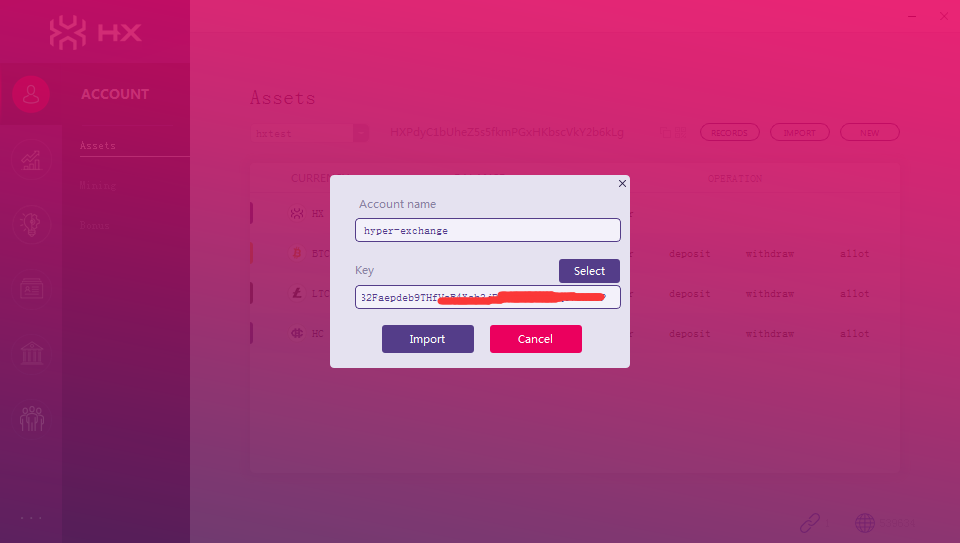
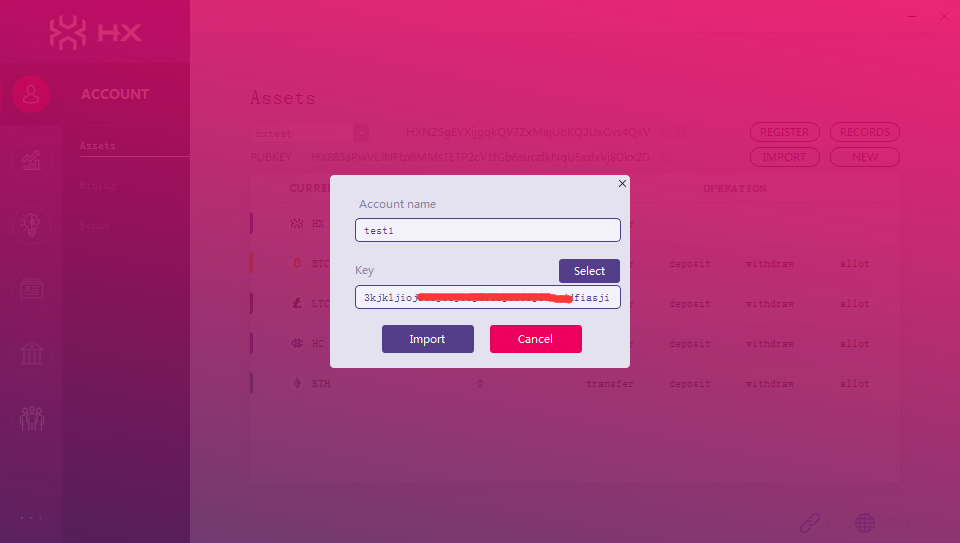
asset page modify

diff --git a/src/i18n/zh/docs/wallets/hxindicator-using-account.md b/src/i18n/zh/docs/wallets/hxindicator-using-account.md
@@ -2,7 +2,7 @@
 
 最新版本 v1.0.7.
 
-本指南假设您已使用[HyperExchange Indicator设置](hxindicator-setup.md)设置了HyperExchange钱包。下面将详细介绍一下功能：`Account/Contract/Advance/Contacts/Senator/Citizen`.
+本指南假设您已使用[HyperExchange Indicator设置](hxindicator-setup.md)设置了HyperExchange钱包。下面将详细介绍以下功能：`Account/Contract/Advance/Contacts/Senator/Citizen`.
 
 ---
 
@@ -12,7 +12,7 @@
 
 ![Account Tab](/img/wallets/hxindicator/asset-page.png)
 
-> 
+> 新建普通账户
 
 资产页面点击创建账户，输入账户名（会校验本钱包是否有重名以及区块链上注册账户是否重名），
 
@@ -24,6 +24,14 @@
 ![backup Tab](/img/wallets/hxindicator/backup-wallet.png)
 
 ![backup Tab1](/img/wallets/hxindicator/backup-wallet1.png)
+
+> 成为注册账户，如果用户想挖矿，或者想成为senator、citizen，则必须要注册，在asset页面点击‘注册’；
+
+![Mining Register](/img/wallets/hxindicator/mining-register.png)
+
+点击 "OK"，输入钱包密码，会出现下面的界面：
+
+![Mining Register](/img/wallets/hxindicator/mining-register1.png)
 
 > 导入账户
 
@@ -110,6 +118,12 @@
 达到最低领取数量后可以点击"get income"进行领取。
 
 ![Mining Mortgage](/img/wallets/hxindicator/mining-get-income.png)
+
+> CITIZEN信息
+
+可以看到当前链上所有citizen的相关信息
+
+![Mining citizen](/img/wallets/hxindicator/mining-citizen.png)
 
 ## 分红
 

diff --git a/docs/wallets/hxindicator-using-account.md b/docs/wallets/hxindicator-using-account.md
@@ -12,7 +12,7 @@ After login asset page, you can view all assets of the Wallet accounts.
 
 ![Account Tab](/img/wallets/hxindicator/asset-page.png)
 
-> Create New Account
+> Create New Normal Account
 
 Click "NEW" to create an account on asset page, enter your account name (it will check whether the registered account already existed on the blockchain).
 
@@ -23,6 +23,14 @@ Click "OK" to backup wallet data, select a safe path, and click "Backup".
 ![backup Tab](/img/wallets/hxindicator/backup-wallet.png)
 
 ![backup Tab1](/img/wallets/hxindicator/backup-wallet1.png)
+
+> To be a registered account, if the user wants to mine, or to be senator or citizen, it must register, click "REGISTER" on the asset page.
+
+![Mining Register](/img/wallets/hxindicator/mining-register.png)
+
+Click "OK",enter the wallet password.You will see screen as below.
+
+![Mining Register](/img/wallets/hxindicator/mining-register1.png)
 
 > Import Account
 
@@ -108,6 +116,12 @@ After pledge assets to citizen, partial reward will be sent to you after blocks 
 After reaching the minimum amount.Click "get income" to receive reward.
 
 ![Mining Mortgage](/img/wallets/hxindicator/mining-get-income.png)
+
+> CITIZEN INFO
+
+Show detail information of all citizens on hx blockchain.
+
+![Mining citizen](/img/wallets/hxindicator/mining-citizen.png)
 
 ## Bonus
 
